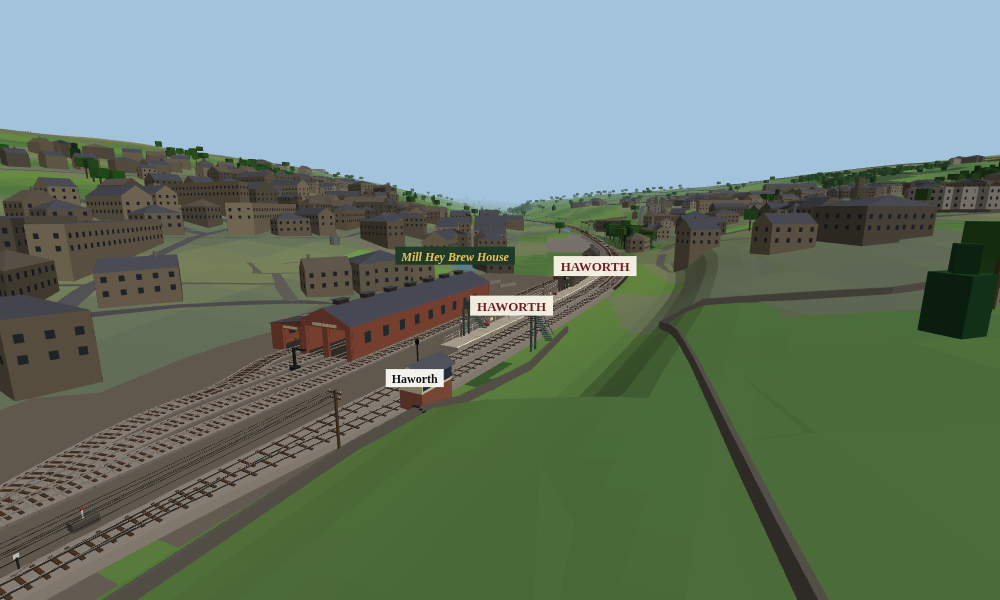
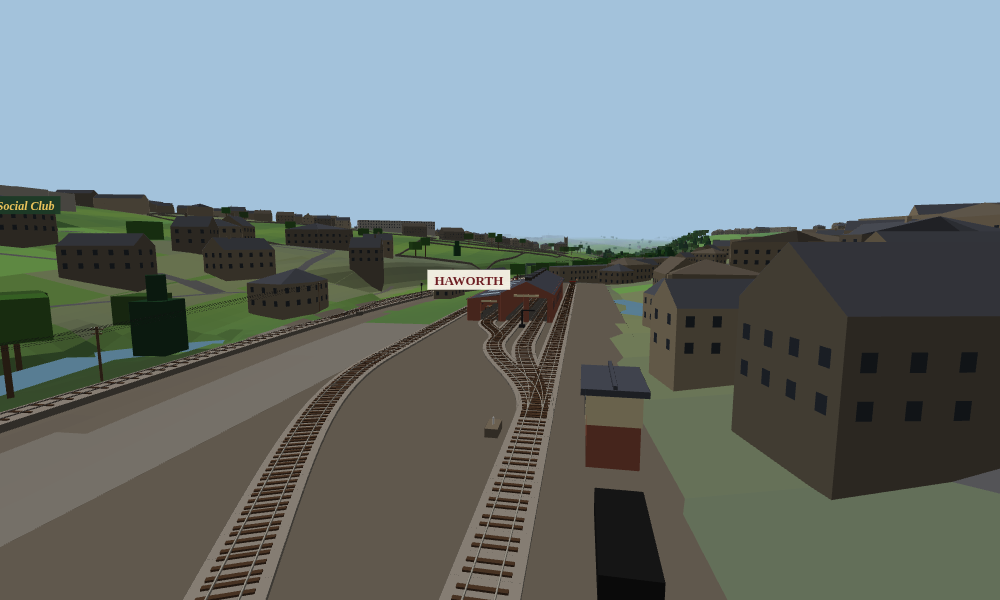
Haworth shed turned to face Oxenhope and moved past the platform's Oxenhope end; works on the main-line side; DMU siding beside it for stored units

diff --git a/index.html b/index.html
@@ -541,7 +541,7 @@
       <ul style="font-size:.9rem">
         <li><b>The laptop:</b> each part of the railway is an app on the desktop. Double-click an icon (or tap it on a touch screen) to open its window; drag windows by the title bar, resize them from the corner, and switch between them on the taskbar. The <b>Start</b> button (the R&amp;H roundel) lists every app.</li>
         <li><b>Mail:</b> railtour companies and other heritage railways email asking to hire your locomotives. Accept their offer, decline, or send a counter-offer: ask for more, but push too hard and they'll go elsewhere. A hired-out engine is away for the weeks agreed, and comes back a little more worn.</li>
-        <li><b>The yard:</b> when you press <b>Run the Weekend</b> you can drive the Class 08 shunter yourself to make up the first train: the laptop folds away and you're in the cab. The yard is the loco yard at Haworth, behind the platform: the carriage siding runs along the back of it, with the shed and works beyond. The coaches are already in the carriage siding; the train engine (and the pilot, for a double-header) is in the engine shed with the rest of the fleet, every engine facing the shunter. Set the points for the right shed road, buffer up to the engine, draw it out, set the points back to the carriage siding and buffer it up to the coaches, then uncouple. ↑/↓ (or W/S) drive, Space brakes, ←/→ (or A/D, or drag) look around, 1/2/3 set the points, U uncouples the shunter. Buffer up gently (under 2 mph) to couple. It's the same Haworth you drive through, so the shed you shunt in is the one you pass: engines not out that day stand in it, and engines in the works stand partly taken apart in the works extension beside it. Every class of engine is modelled from its own wheel arrangement, size and livery. <b>Drive a service:</b> or take a train out on the line yourself. Pick a train and the trip to start from, and drive it from the cab for the rest of its day, or just one way out or back, while the weekend runs on behind you (the other trains you meet are the weekend's own, and when you climb down the map carries on from the cab's clock): every booked call, the passing loops (the starter stays at danger until your time and a clear section), Ingrow Tunnel, Mytholmes Viaduct and Mytholmes Tunnel. The throttle (the regulator, on steam) and the brake are separate handles that stay where you leave them: W/S (or ↑/↓) open and close the throttle, E/D (or PgDn/PgUp) put the brake on and take it off, Space is the emergency brake, C changes the view (leaning out of the cab, sitting in the driver's seat behind the desk or the backhead, or from the lineside), T waits for the right away. Where the train turns back you run the engine round it: uncouple (U), draw forward over the points at that end of the loop and stop clear, set them for the loop (P), reverse (R) and run back along the loop past your coaches, set the far points for the loop before you run out over them, then set them back to the main line, reverse and buffer up gently to the other end of the coaches. Engines aren't turned, so trains come down from Oxenhope tender first (unless you have the Oxenhope turntable). Q (held) sounds the whistle or horn, M turns the sound off and on, H hands the train to another driver to finish the day. Every engine has its own synthesised sound: exhaust beats, diesel engines, whistles and horns. The line is the real Worth Valley, one to one: the track where it runs, the land from the elevation survey, and the valley's buildings, roads, drystone walls, woods, becks and reservoirs from OpenStreetMap. Each way takes about a quarter of an hour. If the timetable runs DMUs, you can drive each unit yourself from its own cab instead: out of the shed onto the headshunt, change ends (E), then into the carriage siding up to the STOP board. Or start in the shunter, climb down (F) and walk over to the unit (hold Shift or ⚡ Sprint to run). A clean, quick job lifts reputation and morale; or let the shed staff do it.</li>
+        <li><b>The yard:</b> when you press <b>Run the Weekend</b> you can drive the Class 08 shunter yourself to make up the first train: the laptop folds away and you're in the cab. The yard is the loco yard at Haworth, behind the platform: the engine shed stands just past the platform's Oxenhope end with its doors facing Oxenhope, the works on its main-line side, and the DMU siding, where the units not working are stored, runs down the side of the works between it and the main line. The carriage siding runs down the far side of the shed. The coaches are already in the carriage siding; the train engine (and the pilot, for a double-header) is in the engine shed with the rest of the fleet, every engine facing the shunter. Set the points for the right shed road, buffer up to the engine, draw it out, set the points back to the carriage siding and buffer it up to the coaches, then uncouple. ↑/↓ (or W/S) drive, Space brakes, ←/→ (or A/D, or drag) look around, 1/2/3 set the points, U uncouples the shunter. Buffer up gently (under 2 mph) to couple. It's the same Haworth you drive through, so the shed you shunt in is the one you pass: engines not out that day stand in it, and engines in the works stand partly taken apart in the works extension beside it. Every class of engine is modelled from its own wheel arrangement, size and livery. <b>Drive a service:</b> or take a train out on the line yourself. Pick a train and the trip to start from, and drive it from the cab for the rest of its day, or just one way out or back, while the weekend runs on behind you (the other trains you meet are the weekend's own, and when you climb down the map carries on from the cab's clock): every booked call, the passing loops (the starter stays at danger until your time and a clear section), Ingrow Tunnel, Mytholmes Viaduct and Mytholmes Tunnel. The throttle (the regulator, on steam) and the brake are separate handles that stay where you leave them: W/S (or ↑/↓) open and close the throttle, E/D (or PgDn/PgUp) put the brake on and take it off, Space is the emergency brake, C changes the view (leaning out of the cab, sitting in the driver's seat behind the desk or the backhead, or from the lineside), T waits for the right away. Where the train turns back you run the engine round it: uncouple (U), draw forward over the points at that end of the loop and stop clear, set them for the loop (P), reverse (R) and run back along the loop past your coaches, set the far points for the loop before you run out over them, then set them back to the main line, reverse and buffer up gently to the other end of the coaches. Engines aren't turned, so trains come down from Oxenhope tender first (unless you have the Oxenhope turntable). Q (held) sounds the whistle or horn, M turns the sound off and on, H hands the train to another driver to finish the day. Every engine has its own synthesised sound: exhaust beats, diesel engines, whistles and horns. The line is the real Worth Valley, one to one: the track where it runs, the land from the elevation survey, and the valley's buildings, roads, drystone walls, woods, becks and reservoirs from OpenStreetMap. Each way takes about a quarter of an hour. If the timetable runs DMUs, you can drive each unit yourself from its own cab instead: out of the shed onto the headshunt, change ends (E), then into the carriage siding up to the STOP board. Or start in the shunter, climb down (F) and walk over to the unit (hold Shift or ⚡ Sprint to run). A clean, quick job lifts reputation and morale; or let the shed staff do it.</li>
         <li><b>Each turn is one week.</b> Plan the weekend in the <b>Timetable</b> app, then press <b>Run the Weekend</b>. Choose how many days to run: weekends, four days a week in the summer school holidays, or close for the week. The weekend then plays out live on the <b>Line Map</b>, all its days together in the time of one (change the speed there, or pause it). You can't start the next week until the last train is home, but you can carry on booking events, buying stock and recruiting while it runs. The takings arrive when the weekend ends.</li>
         <li><b>Timetabling:</b> every train is a round trip from Keighley to Oxenhope and back, about an hour with turn-rounds. Give each loco a set of departure times. If a train isn't back in time, its next trip leaves late.</li>
         <li><b>The printed timetable:</b> the Up and Down tables at the top of the Timetable app are the public timetable, a column for each train. The times are worked out by the signallers' plan, so a train held at a loop shows its real, later time. <b>|</b> means the train runs through without stopping.</li>
@@ -635,7 +635,7 @@ const STATIONS = [
   {key:"ING", name:"Ingrow West", loop:false, blurb:"Its station building was brought brick by brick from Foulridge. The Vintage Carriages Trust's Museum of Rail Travel and the Bahamas Locomotive Society's engine shed are in the yard; Ingrow Tunnel starts just beyond the platform."},
   {key:"DAM", name:"Damems",      loop:true,  blurb:"The smallest station in the country, one coach long, with its level crossing, the gate box from Earby and the passing loop laid in 1971."},
   {key:"OAK", name:"Oakworth",    loop:false, blurb:"The Railway Children's station: gas lamps, enamel adverts and the level crossing at the Haworth end. A passing loop here would split the long Damems–Haworth section."},
-  {key:"HAW", name:"Haworth",     loop:true,  blurb:"The railway's headquarters, with the loco yard behind the platform and the shed and works beyond it. The Brontë Parsonage is at the top of Main Street, up the hill."},
+  {key:"HAW", name:"Haworth",     loop:true,  blurb:"The railway's headquarters, with the loco yard behind the platform: the shed just past its Oxenhope end, the works beside it and the DMU siding. The Brontë Parsonage is at the top of Main Street, up the hill."},
   {key:"OXE", name:"Oxenhope",    loop:true,  blurb:"Terminus at 660 ft, at the head of the valley: the run-round loop, the exhibition shed, the carriage shed and the buffet car."}
 ].map((st, i)=>({...st, mile:Math.round(KW_MILE(KW.stn[i])*1000)/1000, s:(KW.stn[i].s0 + KW.stn[i].s1)/2}));
 const LINE_MILES = STATIONS[STATIONS.length-1].mile;
@@ -3022,19 +3022,24 @@ const SHED = (()=>{ const za = pathPos(2, routeEnd(2) - 50).z, zb = pathPos(2, r
   const xL = o1 - 2.9, xR = o2 + 2.9, xE = o2 + 10.6, bayX = o2 + 5.8, door1 = o1 - 2.05, door2 = o2 + 2.05;   // walls, and the edges of the two doors
   const z0 = pathPos(3, zoneEnd(3)).z + 1, z1 = za - 1.5;
   return {za, zb, xL, xR, xE, bayX, door1, door2, z0, z1, bayAt:z=>z <= z0 ? o2 : z >= z1 ? bayX : o2 + (bayX - o2)*(1 - Math.cos(Math.PI*(z - z0)/(z1 - z0)))/2}; })();
-// The yard lies behind Haworth's platform, as the real loco yard does: its carriage siding runs along the back of the
-// platform, YOFF m out from the main line, and the shed roads beyond it lead to the shed and works, which stand level
-// with the platform's Keighley half where the railway's own works are. Yard x runs away from the main line; yard z
-// runs along it, from the lead (z = 0) to the carriage siding's buffer stops (z = YB). The one Haworth serves both the
+// The yard lies behind Haworth's platform, on the far side from the loop. The shed stands just beyond the platform's
+// Oxenhope end with its doors facing Oxenhope, where the lead comes in; the works is on the main-line side of the shed,
+// and the DMU siding runs down the side of the works, between it and the main line, on along the back of the platform.
+// Yard x runs towards the main line (which is at yard x = YMAIN, YOFF m beyond the DMU siding); yard z runs along it,
+// from the lead (z = 0, the Oxenhope end) to the carriage siding's buffer stops (z = YB). The one Haworth serves both the
 // shunting and the drive: the shed and its roads are built into the line's scenery, and the yard draws the line's
 // world round about it.
-const YB = pathPos(1, routeEnd(1)).z, YOFF = 17, YSHED_S = 6010;
+const YB = pathPos(1, routeEnd(1)).z, YOFF = 17, YSHED_S = 6156;
+// the DMU siding: off the lead near its stop block, out round the water tower to run past the works
+const YDMU = {x:SHED.xE + 4.6, z0:6, z1:96, end:YB};
+const dmuAt = z => z <= YDMU.z0 ? 0 : z >= YDMU.z1 ? YDMU.x : YDMU.x*(1 - Math.cos(Math.PI*(z - YDMU.z0)/(YDMU.z1 - YDMU.z0)))/2;
+const YMAIN = YDMU.x + YOFF;
 function yardPlace(G){
   if(G._yard) return G._yard;
-  const sd = G.side[4], dz = sd > 0 ? 1 : -1;   // so that yard x, square to yard z, points away from the main line
+  const sd = G.side[4], dz = sd > 0 ? -1 : 1;   // so that yard x, square to yard z, points towards the main line
   const sB = YSHED_S + dz*(YB - (SHED.za + SHED.zb)/2), sL = sB - dz*YB, pB = G.at(sB), pL = G.at(sL);
   const th = Math.atan2(pB.x - pL.x, pB.z - pL.z), c = Math.cos(th), s = Math.sin(th);
-  const A0 = {x:pB.x + c*YOFF, z:pB.z - s*YOFF}, B = {x:A0.x, y:G.y((sB + sL)/2), z:A0.z, yaw:th};   // level at the line's height halfway along
+  const A0 = {x:pB.x - c*YMAIN, z:pB.z + s*YMAIN}, B = {x:A0.x, y:G.y((sB + sL)/2), z:A0.z, yaw:th};   // level at the line's height halfway along
   return G._yard = {B, yaw:th, len:YB,
     toLine:(x, z)=>({x:A0.x + c*x + s*(z - YB), z:A0.z - s*x + c*(z - YB)}),
     fromWorld:(X, Z)=>{ const dx = X - A0.x, dz = Z - A0.z; return {x:c*dx - s*dz, z:s*dx + c*dz + YB}; },
@@ -3060,7 +3065,7 @@ const yEngine = (key, number, name, livery) => { const md = locoModel(key, liver
 function dmuJob(set){
   const unit = yEngine(set.lcat.key, set.loco.number, set.lcat.name, set.trainGuest ? null : liveryOf(set.loco));
   unit.need = true;
-  const decoys = shuffle(state.locos.filter(l=>l!==set.loco && !isAway(l) && !isBusy(l))).slice(0, 4)
+  const decoys = shuffle(state.locos.filter(l=>l!==set.loco && l.kind!=="dmu" && !isAway(l) && !isBusy(l))).slice(0, 4)
     .map(l=>yEngine(l.cat, l.number, catOf("loco", l.cat).name, liveryOf(l)));
   return {mode:"dmu", train:`${fmtT(set.deps[0])} ${set.label}`, time:fmtT(set.deps[0]), set:set.label, coaches:[], need:[unit], decoys};
 }
@@ -3076,7 +3081,7 @@ function shuntJob(plan){
   if(set.pilot) need.push(engine(set.pcat.key, set.pilot.number, set.pcat.name, set.pilotGuest ? null : liveryOf(set.pilot)));
   need.forEach(v=>v.need = true);
   // the rest of the fleet is on shed too
-  const decoys = shuffle(state.locos.filter(l=>l!==set.loco && l!==set.pilot && !isAway(l) && !isBusy(l))).slice(0, 4)
+  const decoys = shuffle(state.locos.filter(l=>l!==set.loco && l!==set.pilot && l.kind!=="dmu" && !isAway(l) && !isBusy(l))).slice(0, 4)
     .map(l=>engine(l.cat, l.number, catOf("loco", l.cat).name, liveryOf(l)));
   return {train:`${fmtT(set.deps[0])} ${set.label}`, time:fmtT(set.deps[0]), set:set.label,
           coaches:[coach(0), coach(1), coach(2)], need, decoys};
@@ -3101,14 +3106,19 @@ function offerShunt(jobs){
 let pendingJobs = [], pendingPlan = null;
 
 // engines standing still in the shed and the works, in yard coordinates (a unit car by car): spare engines on the shed
-// roads from the stops back towards the doors, and engines in the works on the bay road, partly taken apart for an
+// roads from the stops back towards the doors, spare units on the DMU siding, and engines in the works on the bay road, partly taken apart for an
 // overhaul or repair (one being repainted stands there whole)
 function shedStatics(gl, spare, works){
   const out = [], put = (md, at) => {
     if(md.cars) md.cars(0).forEach(c=>out.push({mesh:meshBuffer(gl, c.mesh), ...at(c.off, c.len)}));
     else out.push({mesh:meshBuffer(gl, md.mesh()), ...at(0, md.len)}); };
   const used = {2:0, 3:0};
-  for(const l of spare){ const md = locoModel(l.cat, liveryOf(l), l.number), r = used[2] <= used[3] ? 2 : 3;
+  let zD = YDMU.end - 0.6;   // units stand on the DMU siding from its stop block back
+  for(const l of spare.filter(l=>l.kind==="dmu")){ const md = locoModel(l.cat, liveryOf(l), l.number);
+    if(zD - md.len < YDMU.z1 + 2) continue;
+    const zc = zD - md.len/2; zD -= md.len + SHED_GAP;
+    put(md, off=>({x:YDMU.x, z:zc + off, yaw:0})); }
+  for(const l of spare.filter(l=>l.kind!=="dmu")){ const md = locoModel(l.cat, liveryOf(l), l.number), r = used[2] <= used[3] ? 2 : 3;
     if(used[r] + md.len > YARD.sid[r-1] - 4) continue;
     const sc = routeEnd(r) - 0.4 - used[r] - md.len/2; used[r] += md.len + SHED_GAP;
     put(md, (off, len)=>{ const q = vPose({route:r, s:sc + off, len}); return {x:q.x, z:q.z, yaw:q.yaw + Math.PI}; }); }
@@ -3152,7 +3162,7 @@ function startShunt(job, via){
   const dmu = job.mode==="dmu", unit = dmu ? veh[targetIds[0]] : null;
   const shunter = !dmu || via ? {id:-1, type:"shunter", label:"08 773", len:DIESEL_MODELS.c08.len, col:[.1,.36,.22], s:6.5, route:null} : null;
   const sh = unit && !via ? unit : shunter;
-  yd = {job, dmu, via:!!via, unit, shunter, veh, sh, string:[sh], targetIds, points:1, v:0, dir:sh===unit?-1:1, foot:null, G, Y:yardPlace(G), statics:shedStatics(gl, [], worksEngines()),
+  yd = {job, dmu, via:!!via, unit, shunter, veh, sh, string:[sh], targetIds, points:1, v:0, dir:sh===unit?-1:1, foot:null, G, Y:yardPlace(G), statics:shedStatics(gl, state.locos.filter(l=>l.kind==="dmu" && !job.need.some(v=>v.label===l.number) && !isAway(l) && !isBusy(l)), worksEngines()),
         look:0, pitch:-0.06, t:0, rough:0, keys:{}, done:false, raf:0, last:0, msgT:0};
   yd.all = shunter ? [shunter, ...veh] : veh;
   yd.all.forEach(v=>{
@@ -3275,7 +3285,7 @@ function ySndVehicle(){
   sndVoiceStop(k.voice); k.voice = sndVoiceStart(sndProfile(key)); k.key = key;
 }
 function yBlocked(x, z){
-  if(x < -22 || x > SHED.xE + 4 || z < -15 || z > routeEnd(1) + 30) return true;
+  if(x < -14 || x > YDMU.x + 5 || z < -15 || z > routeEnd(1) + 30) return true;
   if(yd.walls.some(([x0,x1,z0,z1])=>x > x0 && x < x1 && z > z0 && z < z1)) return true;
   return yd.all.some(v=>(v.parts || [v]).some(c=>{
     const q = vPose(v.parts ? {route:v.route, s:v.s + (v.flip ? -c.off : c.off), len:c.len} : v), dx = x - q.x, dz = z - q.z;
@@ -3445,6 +3455,10 @@ function yMap(){
   for(let z = SHED.z0 - 2; z <= SHED.zb - 1; z += 2) z > SHED.z0 - 2 ? g.lineTo(u(z), v(SHED.bayAt(z))) : g.moveTo(u(z), v(SHED.bayAt(z))); g.stroke();
   g.strokeStyle = "rgba(255,255,255,.55)"; g.lineWidth = 2; g.strokeRect(u(SHED.za), v(SHED.xE), u(SHED.zb) - u(SHED.za), v(SHED.xR) - v(SHED.xE));
   g.font = "bold 13px Segoe UI, sans-serif"; g.fillText("Works", u(SHED.zb) - 48, v(SHED.xE) + 15); g.font = "bold 17px Segoe UI, sans-serif";
+  g.strokeStyle = "rgba(255,255,255,.35)"; g.lineWidth = 4; g.beginPath();   // the DMU siding, with the units in store
+  for(let z = YDMU.z0 - 2; z <= YDMU.end; z += 2) z > YDMU.z0 - 2 ? g.lineTo(u(z), v(dmuAt(z))) : g.moveTo(u(z), v(dmuAt(z))); g.stroke();
+  g.fillStyle = "#c0392b"; g.fillRect(u(YDMU.end)+1, v(YDMU.x)-9, 5, 18);
+  g.fillStyle = "rgba(255,255,255,.65)"; g.font = "bold 13px Segoe UI, sans-serif"; g.fillText("DMU siding", u(YDMU.z1) - 20, v(YDMU.x) + 22); g.font = "bold 17px Segoe UI, sans-serif";
   for(const st of yd.statics || []){ g.fillStyle = "rgba(160,150,140,.9)"; g.fillRect(u(st.z) - 14, v(st.x) - 4, 28, 8); }
   g.fillStyle = "rgba(255,255,255,.65)";
   [1,2,3].forEach(r=>{ const e = pathPos(r, zoneEnd(r) + 4); g.fillText(ROUTE_NAMES[r-1], u(e.z), v(e.x) + (r===1?24:-9)); });
@@ -3605,11 +3619,12 @@ function yardWorksMesh(){
       box(a, mx, 0.04, mz, 3.8, 0.48, l + 0.05, ballast, yaw);
       for(const o of [0.75,-0.75]) box(a, mx + Math.cos(yaw)*o, 0.455, mz - Math.sin(yaw)*o, 0.08, 0.15, l + 0.02, railC, yaw);
       for(let t = 0.4; t < l; t += 0.8){ const f = t/l; box(a, p.x + (q.x - p.x)*f, 0.33, p.z + (q.z - p.z)*f, 2.6, 0.12, 0.26, sleeper, yaw); } } };
-  box(a, 10.5, -0.06, YB/2, 42, 0.1, YB + 16, [.36,.33,.29]);   // the yard's cinder ground
+  box(a, (YDMU.x - 12)/2, -0.06, YB/2, YDMU.x + 16, 0.1, YB + 16, [.36,.33,.29]);   // the yard's cinder ground
   for(const r of [1,2,3]){ const P = []; for(let u = r===1 ? -1.5 : YARD.lead; u <= routeEnd(r) + 1.5; u += 2) P.push(pathPos(r, u)); lay(P); }
   { const P = []; for(let z = SHED.z0 - 2; z <= zb - 1; z += 2) P.push({x:SHED.bayAt(z), z}); lay(P); }
+  { const P = []; for(let z = YDMU.z0 - 2; z <= YDMU.end + 1.5; z += 2) P.push({x:dmuAt(z), z}); lay(P); }   // the DMU siding
   const stop = (x, z) => { box(a, x, 0.75, z, 2.4, 1.0, 0.8, [.35,.25,.18]); box(a, x, 1.35, z, 2.8, 0.35, 0.3, [.75,.15,.12]); };
-  [1,2,3].forEach(r=>{ const e = pathPos(r, routeEnd(r) + 0.6); stop(e.x, e.z); }); stop(bayX, zb - 0.6); stop(0, -0.6);
+  [1,2,3].forEach(r=>{ const e = pathPos(r, routeEnd(r) + 0.6); stop(e.x, e.z); }); stop(bayX, zb - 0.6); stop(0, -0.6); stop(YDMU.x, YDMU.end + 0.6);
   // ground frame for the points, the STOP board for a unit drawing into the platform, and the signal box
   box(a, 3.2,0.5,YARD.lead-4, 1.2,0.8,2.4, [.4,.36,.3]); box(a, 3.2,1.1,YARD.lead-4, 0.15,0.9,0.15, [.85,.85,.85]);
   { const z = routeEnd(1) - YPLAT - YSTOP; box(a, -1.95,1.9,z, 0.1,1.9,0.1, dark); box(a, -1.95,3.0,z - 0.06, 0.75,0.75,0.05, cream); box(a, -1.95,3.0,z - 0.09, 0.5,0.18,0.02, [.75,.15,.12]); }
@@ -3650,9 +3665,9 @@ function yardWorksMesh(){
     box(a, xE - 1.0, 1.05, z - 0.8, 0.5, 0.2, 0.4, [.5,.5,.52]); box(a, xE - 0.8, 1.0, z + 0.9, 0.3, 0.1, 0.6, [.6,.15,.12]); }   // benches with a vice and a toolbox
   // a water crane by the doors and the water tower by the headshunt
   box(a, xm, 0.3, za - 7, 1.2, 0.6, 1.2, dark); box(a, xm, 2.0, za - 7, 0.35, 3.4, 0.35, dark); box(a, xm - 1.3, 3.6, za - 7, 2.6, 0.25, 0.25, dark);
-  for(const [dx,dz] of [[-1.1,-1.1],[1.1,-1.1],[-1.1,1.1],[1.1,1.1]]) box(a, 5.5+dx,2.5,40+dz, 0.3,5,0.3, dark);
-  box(a, 5.5,6.2,40, 3.4,2.4,3.4, [.2,.24,.27]); box(a, 4.2,4.8,40, 0.25,0.25,2.6, dark);
-  box(a, 7,0.8,56, 3,1.6,8, [.08,.08,.08]);
+  for(const [dx,dz] of [[-1.1,-1.1],[1.1,-1.1],[-1.1,1.1],[1.1,1.1]]) box(a, -5.5+dx,2.5,40+dz, 0.3,5,0.3, dark);
+  box(a, -5.5,6.2,40, 3.4,2.4,3.4, [.2,.24,.27]); box(a, -4.2,4.8,40, 0.25,0.25,2.6, dark);
+  box(a, -7,0.8,56, 3,1.6,8, [.08,.08,.08]);
   return a;
 }
 // a mesh moved from yard coordinates into the line's world (positions and normals; the colours ride along)
@@ -5686,7 +5701,7 @@ function lineTerrain(G){
       if(G.plat.some(([p0, p1])=>s > p0 - 20 && s < p1 + 20)) w = Math.max(w, 1 - smooth01((n.d - 22)/14));
       h += (f - h)*w; }
     // the shed yard at Haworth, level for the shed roads, the shed and the works
-    const yl = Y.fromWorld(x, z), ye = Math.max(-10 - yl.x, yl.x - 30, -14 - yl.z, yl.z - YB - 14);
+    const yl = Y.fromWorld(x, z), ye = Math.max(-14 - yl.x, yl.x - YDMU.x - 6, -14 - yl.z, yl.z - YB - 14);
     if(ye < 20){ const w = 1 - smooth01(ye/20); h += (Y.B.y - 0.4 - h)*w; }
     return {h, n, keep:(n.d < 9 && !br && n.s > -5 && n.s < G.L + 5) || ye < 2}; };
   // the becks and the River Worth, sampled every 4 m, the water level never rising downstream
@@ -5927,7 +5942,7 @@ function kwBuildings(A, G, T){
     for(let k=1;k<n;k++){ x += recs[i++]; z += recs[i++]; P.push([x/2, z/2]); }
     KG.push({ty, h, P});
   }
-  const Y = G.yard, inYard = ([x, z]) => { const q = Y.fromWorld(x, z); return q.x > -4 && q.x < 25 && q.z > -6 && q.z < YB + 6; };
+  const Y = G.yard, inYard = ([x, z]) => { const q = Y.fromWorld(x, z); return q.x > -11 && q.x < YDMU.x + 4 && q.z > -6 && q.z < YB + 6; };
   for(const b of KG){ const P = b.P, n = P.length; let cx = 0, cz = 0;
     if(P.some(inYard)) continue;   // the yard's own shed and works stand here
     for(const [x, z] of P){ cx += x; cz += z; } cx /= n; cz /= n;
@@ -6078,7 +6093,7 @@ function kwScenery(A, At, G, T){
   // the woods, tree by tree (broadleaves in the cloughs, a few conifers), and trees standing in the fields
   let trees = 0;
   const tree = (x, z, conifer) => { const t = T.height(x, z); if(t.n.d < 10 || trees > 16000) return;
-    const yq = G.yard.fromWorld(x, z); if(yq.x > -8 && yq.x < 30 && yq.z > -10 && yq.z < YB + 10) return;   // not in the shed yard
+    const yq = G.yard.fromWorld(x, z); if(yq.x > -14 && yq.x < YDMU.x + 6 && yq.z > -10 && yq.z < YB + 10) return;   // not in the shed yard
     trees++;
     const a = A(x, z), near = t.n.d < 450;
     if(conifer){ const ht = 9 + rnd()*6, col = [.09,.2 + rnd()*.06,.12], y = rnd()*1.5; box(a, x, t.h + ht*0.36, z, ht*0.4, ht*0.66, ht*0.4, col, y); if(near) box(a, x, t.h + ht*0.82, z, ht*0.2, ht*0.36, ht*0.2, col, y + 0.7); return; }

diff --git a/README.md b/README.md
@@ -15,7 +15,7 @@ share.
 *An unofficial, fan-made game, not connected with the Keighley &amp; Worth Valley Railway. The people and companies who
 write to you in the game are fictional.*
 
-![Haworth from above: the loco yard and shed behind the platform, the town on the hill](haworth.png)
+![Haworth: the loco yard behind the platform, the shed facing Oxenhope with the works and the DMU siding on its main-line side](haworth.png)
 
 Everything runs in a single self-contained `index.html`, with no build step and no network after load. The world data is
 packed into the page: about 1.1 MB for the line, the land and 12,000 buildings. Progress auto-saves to your browser's
@@ -29,7 +29,7 @@ local storage, under its own name, so it doesn't clash with a Heritage Railway M
 | Ingrow West | 1.17 | 117 m | | The station building moved from Foulridge, the Museum of Rail Travel's vintage carriages, Ingrow Tunnel (152 m) just beyond |
 | Damems | 1.86 | 134 m | ⇄ | One coach long, the level crossing and its gate box, the passing loop |
 | Oakworth | 2.68 | 154 m | (buildable) | The Railway Children's station: gas lamps, enamel adverts, the level crossing and its ground frame |
-| Haworth | 3.51 | 170 m | ⇄ | The railway's headquarters, the footbridge to the village, and the loco yard behind the platform with the shed and works beyond |
+| Haworth | 3.51 | 170 m | ⇄ | The railway's headquarters, the footbridge to the village, and the loco yard behind the platform: the shed just past its Oxenhope end, facing Oxenhope, the works on its main-line side and the DMU siding |
 | Oxenhope | 4.72 | 196 m | ⇄ | The run-round loop and headshunt, the exhibition shed, the carriage shed and the roofed carriage sidings, the stone goods shed and the buffet carriage |
 
 Between Oakworth and Haworth the line crosses the Worth on Mytholmes Viaduct and goes through Mytholmes Tunnel (69 m), on
@@ -83,8 +83,10 @@ To rebuild the data, fetch OpenStreetMap for the corridor and the terrain tiles,
 ## What's Different From Heritage Railway Manager
 
 - **The yard is at Haworth.** When you shunt, you're in the railway's loco yard behind Haworth's platform, where the
-  real one is. The coaches are in the carriage siding along the back of the platform, and the engines are in the shed
-  and works beyond it, level with the platform's Keighley half.
+  real one is. The engine shed stands just past the platform's Oxenhope end with its doors facing Oxenhope, where the
+  yard's lead comes in. The works is on the shed's main-line side, and the DMU siding runs down the side of the works,
+  between it and the main line, and on along the back of the platform: units not working that day are stored there.
+  The coaches wait in the carriage siding down the far side of the shed.
   It's the same Haworth you drive through, so engines not out that day stand in the shed as you pass.
 - **The drive is real time.** The line isn't squeezed any more: the clock keeps real time while you're moving, and
   each way takes about a quarter of an hour at the 25 mph limit.
